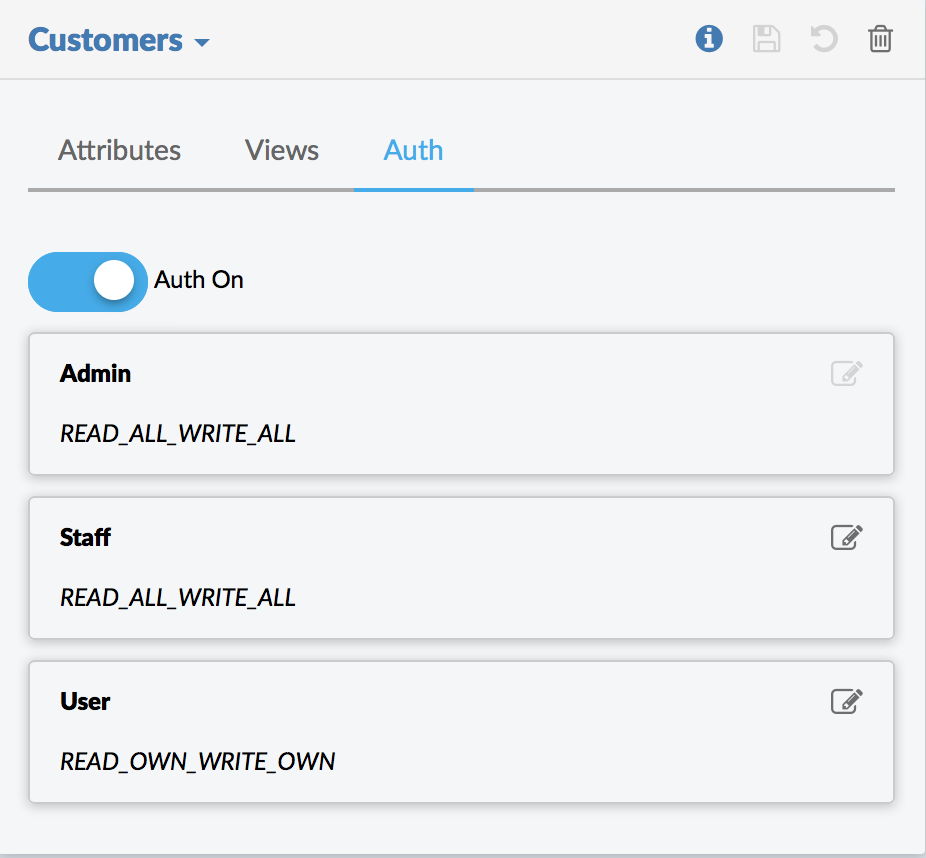
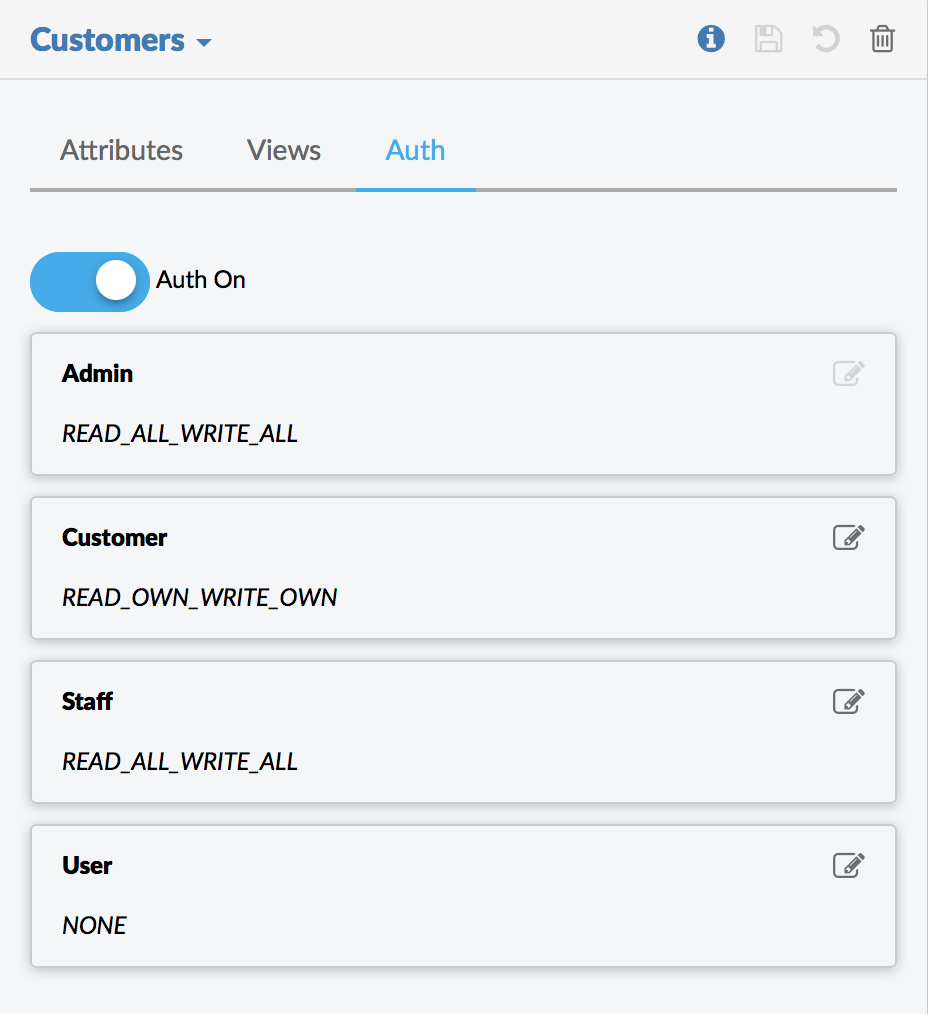
Finished resource auth

diff --git a/_site/docs/res-auth/index.html b/_site/docs/res-auth/index.html
@@ -23,9 +23,9 @@
 <meta property="og:url" content="http://localhost:4000/docs/res-auth/" />
 <meta property="og:site_name" content="Oopsie Doc" />
 <meta property="og:type" content="article" />
-<meta property="article:published_time" content="2017-11-02T18:30:11+01:00" />
+<meta property="article:published_time" content="2017-11-02T18:49:10+01:00" />
 <script type="application/ld+json">
-{"@context":"http://schema.org","@type":"WebPage","headline":"Resource Auth","datePublished":"2017-11-02T18:30:11+01:00","dateModified":"2017-11-02T18:30:11+01:00","description":"All Resources have an authorization config attached to them. This menas that you can fine tune how your users access the data on a resource level. E.g. the registry of Customers the staff at your comapny should have access right to all customer data, but the customers themselves should only be able to read and write their own data.","url":"http://localhost:4000/docs/res-auth/"}</script>
+{"@context":"http://schema.org","@type":"WebPage","headline":"Resource Auth","datePublished":"2017-11-02T18:49:10+01:00","dateModified":"2017-11-02T18:49:10+01:00","description":"All Resources have an authorization config attached to them. This menas that you can fine tune how your users access the data on a resource level. E.g. the registry of Customers the staff at your comapny should have access right to all customer data, but the customers themselves should only be able to read and write their own data.","url":"http://localhost:4000/docs/res-auth/"}</script>
 <!-- End Jekyll SEO tag -->
 
 
@@ -269,9 +269,7 @@
             <h1>Resource Auth</h1>
             <div id="markdown-content-container"><p>All <em><a href="/docs/resources">Resources</a></em> have an authorization config attached to them. This menas that you can fine tune how your users access the data on a resource level. E.g. the registry of <em>Customers</em> the <em>staff</em> at your comapny should have access right to all  <em>customer</em> data, but the customers themselves should only be able to read and write their own data.</p>
 
-<p>With <em><a href="/docs/what-is-auth">Authorization Models</a></em> you can create specific <em>Authorizations</em> with different default <em>Permissions</em>. Below is a screenshot of how the above example could look like when configures on a resource called <em>Customers</em>.</p>
-
-<h3 id="change-pic">CHANGE PIC</h3>
+<p>With <em><a href="/docs/what-is-auth">Authorization Models</a></em> you can create specific <em>Authorizations</em> with different default <em>Permissions</em>. Below is a screenshot of how the above example could look like when configured on a resource called <em>Customers</em>.</p>
 
 <p><img src="/img/res-auth-tab.png" width="350" /></p>
 
@@ -279,9 +277,9 @@
 
 <p>With the swipe button you turn on and off the authorization of the resource. Default is on since with autorization off the resource will be fully open to anyone on the internet. So, be careful with this setting.</p>
 
-<h2 id="talk-about-user">TALK ABOUT USER</h2>
+<p>Under the auth swipe button we see a list of <em>Authorizations</em>. You can see these as groups or roles if you like. The <em>auths</em> are initially configured with the default <em>permission</em> as set by the <em>Auhtorization Model</em> used by the <em>Application</em>. You can change the <em>permission</em> if you aren’t satisfied with the default value.</p>
 
-<p>Under the auth swipe button we see a list of <em>Authorizations</em>. You can see these as groups or roles if you like. Two auths are always present, Admin and User, and you can read more about these in the <em><a href="/docs/what-is-auth">Authorization Models</a></em> section. The <em>auths</em> are initially configured with the default <em>permission</em> as set by the <em>Auhtorization Model</em> used by the <em>Application</em>. You can change the <em>permission</em> if you aren’t satisfid with the default. The Admin auth is locked though, this since users in Admin should always have access to everything.</p>
+<p>A word about the <em>Admin</em> and <em>User</em> auths. Two auths are always present in the resource auth tab, <em>Admin</em> and <em>User</em>. <em>Admin</em> auth is disabled for editing since users in <em>Admin</em> should always have read and write access to everything. All users registered in an oopsie site will always be added to the <em>User</em> auth. Therefore it should be considered a good practice to always have this auth set to permission <em>NONE</em> and create more suitable auths such as the Customer auth as shown in picture. You can read more about these special auths in the <em><a href="/docs/what-is-auth">Authorization Models</a></em> section.</p>
 </div>
             <p class="text-center">
               <br />

diff --git a/_site/docs/index.html b/_site/docs/index.html
@@ -23,9 +23,9 @@
 <meta property="og:url" content="http://localhost:4000/docs/" />
 <meta property="og:site_name" content="Oopsie Doc" />
 <meta property="og:type" content="article" />
-<meta property="article:published_time" content="2017-11-02T18:30:11+01:00" />
+<meta property="article:published_time" content="2017-11-02T18:49:10+01:00" />
 <script type="application/ld+json">
-{"@context":"http://schema.org","@type":"WebPage","headline":"Developers Guide To OOPSIE","datePublished":"2017-11-02T18:30:11+01:00","dateModified":"2017-11-02T18:30:11+01:00","description":"The whole idea of OOPSIE is to make your awesome idea come true. Make it easy for you to create your application and be ready for the big world without all the hassle of maintaining a complex server infratructure. OOPSIE will do that for you, out-of-the-box! It doesn’t matter if you are gonna create a small personal application or if you want to push “Big Data” from your enterprise systems for later analysis. With a few drags and clicks you can create full-fledged scalable applications and have it running within minutes. What is scalable? Well, imagine you create an app that over a night goes totally viral ands needs to handle tens of thousands of users and their server requests, how would you hande that? Don’t, OOPSIE will do it for you!","url":"http://localhost:4000/docs/"}</script>
+{"@context":"http://schema.org","@type":"WebPage","headline":"Developers Guide To OOPSIE","datePublished":"2017-11-02T18:49:10+01:00","dateModified":"2017-11-02T18:49:10+01:00","description":"The whole idea of OOPSIE is to make your awesome idea come true. Make it easy for you to create your application and be ready for the big world without all the hassle of maintaining a complex server infratructure. OOPSIE will do that for you, out-of-the-box! It doesn’t matter if you are gonna create a small personal application or if you want to push “Big Data” from your enterprise systems for later analysis. With a few drags and clicks you can create full-fledged scalable applications and have it running within minutes. What is scalable? Well, imagine you create an app that over a night goes totally viral ands needs to handle tens of thousands of users and their server requests, how would you hande that? Don’t, OOPSIE will do it for you!","url":"http://localhost:4000/docs/"}</script>
 <!-- End Jekyll SEO tag -->
 
 

diff --git a/_site/docs/resources/index.html b/_site/docs/resources/index.html
@@ -23,9 +23,9 @@
 <meta property="og:url" content="http://localhost:4000/docs/resources/" />
 <meta property="og:site_name" content="Oopsie Doc" />
 <meta property="og:type" content="article" />
-<meta property="article:published_time" content="2017-11-02T18:30:11+01:00" />
+<meta property="article:published_time" content="2017-11-02T18:49:10+01:00" />
 <script type="application/ld+json">
-{"@context":"http://schema.org","@type":"WebPage","headline":"Resources","datePublished":"2017-11-02T18:30:11+01:00","dateModified":"2017-11-02T18:30:11+01:00","description":"An application is usually modeled with objects, e.g. a person object or an employee object. These objects holds information about specific object entities, e.g. a person object entity could be a person with name Dalai Lama. In OOPSIE these objects are called a Resource and the information resides in Attributes such as name. A Resources may contain any number of Attributes of various types. All resource entities also gets a unique id (eid) and specific resource entities can be queried using this eid. To create more advanced queries a resource can be modeled with Views to get resource results in a specific manner. To secure the access of resources each resource may have its Authorization altered to control specific rights using *Permissions”.","url":"http://localhost:4000/docs/resources/"}</script>
+{"@context":"http://schema.org","@type":"WebPage","headline":"Resources","datePublished":"2017-11-02T18:49:10+01:00","dateModified":"2017-11-02T18:49:10+01:00","description":"An application is usually modeled with objects, e.g. a person object or an employee object. These objects holds information about specific object entities, e.g. a person object entity could be a person with name Dalai Lama. In OOPSIE these objects are called a Resource and the information resides in Attributes such as name. A Resources may contain any number of Attributes of various types. All resource entities also gets a unique id (eid) and specific resource entities can be queried using this eid. To create more advanced queries a resource can be modeled with Views to get resource results in a specific manner. To secure the access of resources each resource may have its Authorization altered to control specific rights using *Permissions”.","url":"http://localhost:4000/docs/resources/"}</script>
 <!-- End Jekyll SEO tag -->
 
 

diff --git a/_site/docs/api-keys/index.html b/_site/docs/api-keys/index.html
@@ -23,9 +23,9 @@
 <meta property="og:url" content="http://localhost:4000/docs/api-keys/" />
 <meta property="og:site_name" content="Oopsie Doc" />
 <meta property="og:type" content="article" />
-<meta property="article:published_time" content="2017-11-02T18:30:11+01:00" />
+<meta property="article:published_time" content="2017-11-02T18:49:10+01:00" />
 <script type="application/ld+json">
-{"@context":"http://schema.org","@type":"WebPage","headline":"Api keys","datePublished":"2017-11-02T18:30:11+01:00","dateModified":"2017-11-02T18:30:11+01:00","description":"You can use Api keys to protect your data if you have any sensitive data. For eg. maybe you want some to give away an API Key that only has READ or WRITE access to a specific Resource, or a couple of Resources.","url":"http://localhost:4000/docs/api-keys/"}</script>
+{"@context":"http://schema.org","@type":"WebPage","headline":"Api keys","datePublished":"2017-11-02T18:49:10+01:00","dateModified":"2017-11-02T18:49:10+01:00","description":"You can use Api keys to protect your data if you have any sensitive data. For eg. maybe you want some to give away an API Key that only has READ or WRITE access to a specific Resource, or a couple of Resources.","url":"http://localhost:4000/docs/api-keys/"}</script>
 <!-- End Jekyll SEO tag -->
 
 

diff --git a/_site/docs/what-is-an-application/index.html b/_site/docs/what-is-an-application/index.html
@@ -23,9 +23,9 @@
 <meta property="og:url" content="http://localhost:4000/docs/what-is-an-application/" />
 <meta property="og:site_name" content="Oopsie Doc" />
 <meta property="og:type" content="article" />
-<meta property="article:published_time" content="2017-11-02T18:30:11+01:00" />
+<meta property="article:published_time" content="2017-11-02T18:49:10+01:00" />
 <script type="application/ld+json">
-{"@context":"http://schema.org","@type":"WebPage","headline":"What is an Application?","datePublished":"2017-11-02T18:30:11+01:00","dateModified":"2017-11-02T18:30:11+01:00","description":"An Application Model acts like a template and holds a number of resources to store data. An application model can be released for later use on a Site.","url":"http://localhost:4000/docs/what-is-an-application/"}</script>
+{"@context":"http://schema.org","@type":"WebPage","headline":"What is an Application?","datePublished":"2017-11-02T18:49:10+01:00","dateModified":"2017-11-02T18:49:10+01:00","description":"An Application Model acts like a template and holds a number of resources to store data. An application model can be released for later use on a Site.","url":"http://localhost:4000/docs/what-is-an-application/"}</script>
 <!-- End Jekyll SEO tag -->
 
 

diff --git a/_site/docs/users/index.html b/_site/docs/users/index.html
@@ -23,9 +23,9 @@
 <meta property="og:url" content="http://localhost:4000/docs/users/" />
 <meta property="og:site_name" content="Oopsie Doc" />
 <meta property="og:type" content="article" />
-<meta property="article:published_time" content="2017-11-02T18:30:11+01:00" />
+<meta property="article:published_time" content="2017-11-02T18:49:10+01:00" />
 <script type="application/ld+json">
-{"@context":"http://schema.org","@type":"WebPage","headline":"Users","datePublished":"2017-11-02T18:30:11+01:00","dateModified":"2017-11-02T18:30:11+01:00","description":"Oopsie can help you handle users for your site. You can register, login and logout users via Oopsie, or you can disable this feature all together if you don’t want to handle Users.","url":"http://localhost:4000/docs/users/"}</script>
+{"@context":"http://schema.org","@type":"WebPage","headline":"Users","datePublished":"2017-11-02T18:49:10+01:00","dateModified":"2017-11-02T18:49:10+01:00","description":"Oopsie can help you handle users for your site. You can register, login and logout users via Oopsie, or you can disable this feature all together if you don’t want to handle Users.","url":"http://localhost:4000/docs/users/"}</script>
 <!-- End Jekyll SEO tag -->
 
 

diff --git a/_site/docs/attributes/index.html b/_site/docs/attributes/index.html
@@ -23,9 +23,9 @@
 <meta property="og:url" content="http://localhost:4000/docs/attributes/" />
 <meta property="og:site_name" content="Oopsie Doc" />
 <meta property="og:type" content="article" />
-<meta property="article:published_time" content="2017-11-02T18:30:11+01:00" />
+<meta property="article:published_time" content="2017-11-02T18:49:10+01:00" />
 <script type="application/ld+json">
-{"@context":"http://schema.org","@type":"WebPage","headline":"Attributes","datePublished":"2017-11-02T18:30:11+01:00","dateModified":"2017-11-02T18:30:11+01:00","description":"An Attribute is basically data you want to store for later use. If you are system engineer you may think of an Attribute as a column in a Database Table.","url":"http://localhost:4000/docs/attributes/"}</script>
+{"@context":"http://schema.org","@type":"WebPage","headline":"Attributes","datePublished":"2017-11-02T18:49:10+01:00","dateModified":"2017-11-02T18:49:10+01:00","description":"An Attribute is basically data you want to store for later use. If you are system engineer you may think of an Attribute as a column in a Database Table.","url":"http://localhost:4000/docs/attributes/"}</script>
 <!-- End Jekyll SEO tag -->
 
 

diff --git a/_site/docs/sensor/index.html b/_site/docs/sensor/index.html
@@ -23,9 +23,9 @@
 <meta property="og:url" content="http://localhost:4000/docs/sensor/" />
 <meta property="og:site_name" content="Oopsie Doc" />
 <meta property="og:type" content="article" />
-<meta property="article:published_time" content="2017-11-02T18:30:11+01:00" />
+<meta property="article:published_time" content="2017-11-02T18:49:10+01:00" />
 <script type="application/ld+json">
-{"@context":"http://schema.org","@type":"WebPage","headline":"Sensor","datePublished":"2017-11-02T18:30:11+01:00","dateModified":"2017-11-02T18:30:11+01:00","description":"Example of a sensor sending sensor data every second to Oopsie to later be able to analyze the data.","url":"http://localhost:4000/docs/sensor/"}</script>
+{"@context":"http://schema.org","@type":"WebPage","headline":"Sensor","datePublished":"2017-11-02T18:49:10+01:00","dateModified":"2017-11-02T18:49:10+01:00","description":"Example of a sensor sending sensor data every second to Oopsie to later be able to analyze the data.","url":"http://localhost:4000/docs/sensor/"}</script>
 <!-- End Jekyll SEO tag -->
 
 

diff --git a/_site/docs/overview/index.html b/_site/docs/overview/index.html
@@ -23,9 +23,9 @@
 <meta property="og:url" content="http://localhost:4000/docs/overview/" />
 <meta property="og:site_name" content="Oopsie Doc" />
 <meta property="og:type" content="article" />
-<meta property="article:published_time" content="2017-11-02T18:30:11+01:00" />
+<meta property="article:published_time" content="2017-11-02T18:49:10+01:00" />
 <script type="application/ld+json">
-{"@context":"http://schema.org","@type":"WebPage","headline":"Overview","datePublished":"2017-11-02T18:30:11+01:00","dateModified":"2017-11-02T18:30:11+01:00","description":"OOPSIE - The backend service with a Big Data twist","url":"http://localhost:4000/docs/overview/"}</script>
+{"@context":"http://schema.org","@type":"WebPage","headline":"Overview","datePublished":"2017-11-02T18:49:10+01:00","dateModified":"2017-11-02T18:49:10+01:00","description":"OOPSIE - The backend service with a Big Data twist","url":"http://localhost:4000/docs/overview/"}</script>
 <!-- End Jekyll SEO tag -->
 
 

diff --git a/_site/docs/quickstart/index.html b/_site/docs/quickstart/index.html
@@ -23,9 +23,9 @@
 <meta property="og:url" content="http://localhost:4000/docs/quickstart/" />
 <meta property="og:site_name" content="Oopsie Doc" />
 <meta property="og:type" content="article" />
-<meta property="article:published_time" content="2017-11-02T18:30:11+01:00" />
+<meta property="article:published_time" content="2017-11-02T18:49:10+01:00" />
 <script type="application/ld+json">
-{"@context":"http://schema.org","@type":"WebPage","headline":"Quickstart","datePublished":"2017-11-02T18:30:11+01:00","dateModified":"2017-11-02T18:30:11+01:00","description":"Estimated time: 15 - 30m","url":"http://localhost:4000/docs/quickstart/"}</script>
+{"@context":"http://schema.org","@type":"WebPage","headline":"Quickstart","datePublished":"2017-11-02T18:49:10+01:00","dateModified":"2017-11-02T18:49:10+01:00","description":"Estimated time: 15 - 30m","url":"http://localhost:4000/docs/quickstart/"}</script>
 <!-- End Jekyll SEO tag -->
 
 

diff --git a/_site/docs/what-is-auth/index.html b/_site/docs/what-is-auth/index.html
@@ -23,9 +23,9 @@
 <meta property="og:url" content="http://localhost:4000/docs/what-is-auth/" />
 <meta property="og:site_name" content="Oopsie Doc" />
 <meta property="og:type" content="article" />
-<meta property="article:published_time" content="2017-11-02T18:30:11+01:00" />
+<meta property="article:published_time" content="2017-11-02T18:49:10+01:00" />
 <script type="application/ld+json">
-{"@context":"http://schema.org","@type":"WebPage","headline":"What is Authorization?","datePublished":"2017-11-02T18:30:11+01:00","dateModified":"2017-11-02T18:30:11+01:00","description":"Auth","url":"http://localhost:4000/docs/what-is-auth/"}</script>
+{"@context":"http://schema.org","@type":"WebPage","headline":"What is Authorization?","datePublished":"2017-11-02T18:49:10+01:00","dateModified":"2017-11-02T18:49:10+01:00","description":"Auth","url":"http://localhost:4000/docs/what-is-auth/"}</script>
 <!-- End Jekyll SEO tag -->
 
 

diff --git a/_site/docs/javascript-sdk/index.html b/_site/docs/javascript-sdk/index.html
@@ -23,9 +23,9 @@
 <meta property="og:url" content="http://localhost:4000/docs/javascript-sdk/" />
 <meta property="og:site_name" content="Oopsie Doc" />
 <meta property="og:type" content="article" />
-<meta property="article:published_time" content="2017-11-02T18:30:11+01:00" />
+<meta property="article:published_time" content="2017-11-02T18:49:10+01:00" />
 <script type="application/ld+json">
-{"@context":"http://schema.org","@type":"WebPage","headline":"Javascript SDK","datePublished":"2017-11-02T18:30:11+01:00","dateModified":"2017-11-02T18:30:11+01:00","description":"Install","url":"http://localhost:4000/docs/javascript-sdk/"}</script>
+{"@context":"http://schema.org","@type":"WebPage","headline":"Javascript SDK","datePublished":"2017-11-02T18:49:10+01:00","dateModified":"2017-11-02T18:49:10+01:00","description":"Install","url":"http://localhost:4000/docs/javascript-sdk/"}</script>
 <!-- End Jekyll SEO tag -->
 
 
